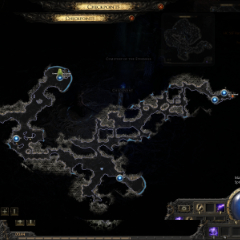
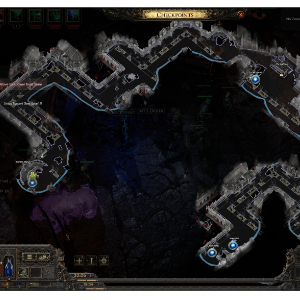
act 1 layouts (#161)

diff --git a/src/components/widgets/LayoutWidget.tsx b/src/components/widgets/LayoutWidget.tsx
@@ -8,10 +8,12 @@ import {
   addIcon,
   addLayout,
   addLine,
+  changeDefaultLayout,
   changeIconLocation,
   changeLayoutName,
   copyLayout,
   deleteLayout,
+  deleteLines,
   layouts,
   saveLayouts,
 } from "../../state/Layouts";
@@ -33,6 +35,13 @@ function LayoutWidget() {
     "myplayer",
     "rustobelisk",
     "runes",
+    "reward generic",
+    "labyrinth door",
+    "dryadic ritual",
+    "ritual",
+    "lute",
+    "crop circle",
+    "tools",
   ];
   let containerRef!: HTMLDivElement;
 
@@ -166,28 +175,60 @@ function LayoutWidget() {
 
           <Show when={!passthrough()}>
             <div class="flex flex-col gap-2 pt-1 border-t border-base-content/10 max-w-60">
-              <select class="select select-sm select-bordered w-full bg-base-200">
-                <For each={layouts?.[tracker.zone]}>
-                  {(l, i) => (
-                    <option
-                      selected={i() == layoutIndex()}
-                      onClick={() => setLayoutIndex(i())}
-                    >
-                      {l.name}
-                    </option>
-                  )}
-                </For>
-              </select>
               <div class="inline-flex items-center justify-center gap-2">
+                <select class="select select-sm select-bordered w-full bg-base-200">
+                  <For each={layouts?.[tracker.zone]}>
+                    {(l, i) => (
+                      <option
+                        selected={i() == layoutIndex()}
+                        onClick={() => setLayoutIndex(i())}
+                      >
+                        {l?.name}
+                      </option>
+                    )}
+                  </For>
+                </select>
                 <input
                   type="text"
                   placeholder="Icon Label..."
                   class="input input-sm input-bordered w-full bg-base-200"
-                  value={layouts?.[tracker.zone][layoutIndex()].name}
+                  value={layouts?.[tracker.zone][layoutIndex()]?.name}
                   onChange={(e) =>
                     changeLayoutName(layoutIndex(), e.currentTarget.value)
                   }
                 />
+              </div>
+              <div class="inline-flex items-center justify-center gap-2">
+                <button
+                  class="btn btn-sm flex-1 hover:text-success hover:bg-success/10"
+                  onClick={() => {
+                    changeDefaultLayout(layoutIndex());
+                    setLayoutIndex(0);
+                  }}
+                >
+                  <svg
+                    xmlns="http://www.w3.org/2000/svg"
+                    width="16"
+                    height="16"
+                    viewBox="0 0 24 24"
+                    fill="none"
+                    stroke="currentColor"
+                    stroke-width="2"
+                    stroke-linecap="round"
+                    stroke-linejoin="round"
+                    class="lucide lucide-replace-all-icon lucide-replace-all"
+                  >
+                    <path d="M14 14a1 1 0 0 1 1 1v5a1 1 0 0 1-1 1" />
+                    <path d="M14 4a1 1 0 0 1 1-1" />
+                    <path d="M15 10a1 1 0 0 1-1-1" />
+                    <path d="M19 14a1 1 0 0 1 1 1v5a1 1 0 0 1-1 1" />
+                    <path d="M21 4a1 1 0 0 0-1-1" />
+                    <path d="M21 9a1 1 0 0 1-1 1" />
+                    <path d="m3 7 3 3 3-3" />
+                    <path d="M6 10V5a2 2 0 0 1 2-2h2" />
+                    <rect x="3" y="14" width="7" height="7" rx="1" />
+                  </svg>
+                </button>
                 <button
                   class="btn btn-sm flex-1 hover:text-success hover:bg-success/10"
                   onClick={() => {
@@ -294,14 +335,20 @@ function LayoutWidget() {
                     setIconLabel("");
                   }}
                 >
-                  Add Icon
+                  + Icon
                 </button>
                 <button
                   class="btn btn-sm flex-1"
                   classList={{ "btn-active btn-secondary": selecting() }}
                   onClick={() => setSelecting(!selecting())}
                 >
-                  {selecting() ? "Selecting…" : "Add Line"}
+                  {selecting() ? "Selecting…" : "+ Line"}
+                </button>
+                <button
+                  class="btn btn-sm flex-1 hover:text-error hover:bg-error/10"
+                  onClick={() => deleteLines(layoutIndex())}
+                >
+                  - Lines
                 </button>
               </div>
 

diff --git a/src/components/TrayIcon.ts b/src/components/TrayIcon.ts
@@ -2,12 +2,13 @@ import { TrayIcon } from "@tauri-apps/api/tray";
 import { Menu, PredefinedMenuItem, Submenu } from "@tauri-apps/api/menu";
 import { relaunch } from "@tauri-apps/plugin-process";
 import { defaultWindowIcon } from "@tauri-apps/api/app";
-import { getCurrentWindow } from "@tauri-apps/api/window";
+import { getAllWindows, getCurrentWindow } from "@tauri-apps/api/window";
 import { togglePassthrough } from "../state/Passthrough";
 import { exportGuide, importGuide } from "../state/Guide";
 import { store } from "../state/Store";
 import { exportLayouts, importLayouts } from "../state/Layouts";
 import { exportTowns } from "../state/Towns";
+import { info } from "@tauri-apps/plugin-log";
 
 async function initTrayIcon() {
   try {
@@ -90,7 +91,13 @@ async function initTrayIcon() {
         {
           id: "quit",
           text: "Quit Application",
-          action: async () => await getCurrentWindow().close(),
+          action: async () => {
+            const windows = await getAllWindows();
+            for (const win of windows) {
+              info(win.label);
+              await win.close();
+            }
+          },
         },
         {
           id: "",

diff --git a/src/state/Layouts.ts b/src/state/Layouts.ts
@@ -78,6 +78,17 @@ const changeLayoutName = (layoutIndex: number, name: string) => {
   );
 };
 
+const changeDefaultLayout = (layoutIndex: number) => {
+  setLayouts(
+    produce((s) => {
+      [s[tracker.zone][layoutIndex], s[tracker.zone][0]] = [
+        s[tracker.zone][0],
+        s[tracker.zone][layoutIndex],
+      ];
+    }),
+  );
+};
+
 const addIcon = (layoutIndex: number, iconType: string, iconLabel: string) => {
   if (iconType === "") return;
 
@@ -126,6 +137,14 @@ const addLine = (
           { fromIconId: start, toIconId: end },
         ]),
     ),
+  );
+};
+
+const deleteLines = (layoutIndex: number) => {
+  setLayouts(
+    produce((s) => {
+      s[tracker.zone][layoutIndex]["lines"] = [];
+    }),
   );
 };
 
@@ -219,9 +238,11 @@ export {
   addEmptyLayout,
   copyLayout,
   changeLayoutName,
+  changeDefaultLayout,
   addIcon,
   changeIconLocation,
   addLine,
+  deleteLines,
   deleteLayout,
   saveLayouts,
   loadLayouts,

diff --git a/src/App.tsx b/src/App.tsx
@@ -35,7 +35,7 @@ import { error, info } from "@tauri-apps/plugin-log";
 import { store } from "./state/Store";
 import { ErrorMessage } from "./components/ErrorMessage";
 import { LayoutWidget } from "./components/widgets/LayoutWidget";
-import { loadLayouts } from "./state/Layouts";
+import { loadLayouts, saveLayouts } from "./state/Layouts";
 
 function App() {
   onMount(async () => {
@@ -85,6 +85,7 @@ function App() {
           saveGuide(),
           saveTowns(),
           saveCharacter(),
+          saveLayouts(),
         ]);
 
         await exit(0);

diff --git a/vite.config.ts b/vite.config.ts
@@ -1,4 +1,5 @@
 import tailwindcss from "@tailwindcss/vite";
+import { resolve } from "@tauri-apps/api/path";
 import { defineConfig } from "vite";
 import solid from "vite-plugin-solid";
 
